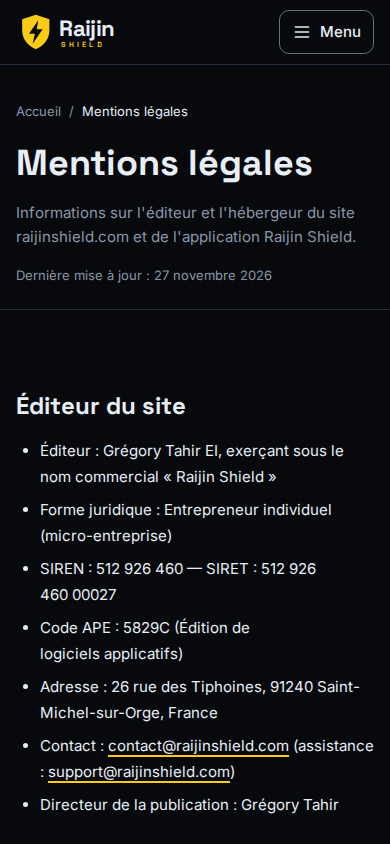
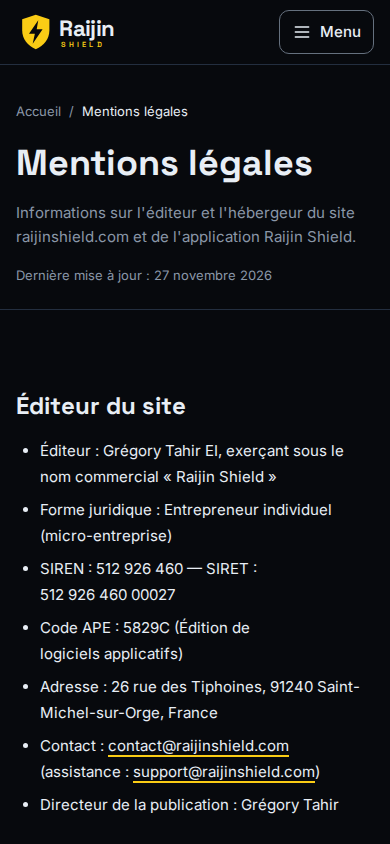
fix(landing): plus de mots collés après compression HTML, espaces insécables françaises au build, test sur le HTML construit, captures refaites

Changed region(s): [[0.0923, 0.8626, 0.9538, 0.9242], [0.0923, 0.6777, 0.4615, 0.7085], [0.6769, 0.6469, 0.8, 0.6777]]

diff --git a/apps/landing/src/dist.spec.ts b/apps/landing/src/dist.spec.ts
@@ -5,6 +5,7 @@ import { join, relative, resolve } from 'node:path';
 import { gzipSync } from 'node:zlib';
 import { describe, expect, it } from 'vitest';
 import { DISCLAIMER } from './lib/content';
+import { findGluedWords } from './lib/glued-words';
 import { EDITOR } from './lib/legal';
 import { STATIC_PAGES } from './lib/pages';
 import { formatPrice } from './lib/pricing';
@@ -56,11 +57,18 @@ const APP_PATHS = ['/compte/inscription', '/compte/connexion', '/analyse'];
 /** Mots et symboles interdits par la charte (BRAND.md, PROMPT.md §2). */
 const FORBIDDEN = [/\bx10\b/i, /\bmoon\b/i, /\bgems?\b/i, /achète/i, /opportunité/i, /signal d['’]achat/i, /🚀/u, /💰/u];
 
+/** Texte visible, espaces insécables (typographie française du build) ramenées à des espaces. */
 function visibleText(doc: Document): string {
+  return rawVisibleText(doc).replace(/\u00a0/g, ' ');
+}
+
+function rawVisibleText(doc: Document): string {
   const clone = doc.body.cloneNode(true) as HTMLElement;
   for (const script of clone.querySelectorAll('script, style')) script.remove();
   return clone.textContent ?? '';
 }
+
+const plain = (text: string | null | undefined) => (text ?? '').replace(/\u00a0/g, ' ').trim();
 
 describe('build : pages et SEO', () => {
   it('produit toutes les pages attendues', () => {
@@ -200,10 +208,10 @@ describe('build : liens', () => {
 describe('build : contenu', () => {
   it('la mention légale figure dans le pied de page de chaque page et dans le contenu de la page Tarifs', () => {
     for (const page of pages) {
-      expect(page.doc.querySelector('footer [data-disclaimer]')?.textContent?.trim(), page.path).toBe(DISCLAIMER);
+      expect(plain(page.doc.querySelector('footer [data-disclaimer]')?.textContent), page.path).toBe(DISCLAIMER);
     }
     const tarifs = pages.find((page) => page.path === '/tarifs') as Page;
-    expect(tarifs.doc.querySelector('main [data-disclaimer]')?.textContent?.trim()).toBe(DISCLAIMER);
+    expect(plain(tarifs.doc.querySelector('main [data-disclaimer]')?.textContent)).toBe(DISCLAIMER);
   });
 
   it('les prix affichés sur l’accueil et les tarifs sont ceux du catalogue', () => {
@@ -232,6 +240,24 @@ describe('build : contenu', () => {
     for (const word of ['rj_consent', 'rj_attr', '_ga', 'sessionStorage', 'Stripe', 'Resend', 'Helius', 'CNIL']) {
       expect(privacy).toContain(word);
     }
+  });
+
+  it.each(pages.map((page) => [page.path, page] as const))('%s : aucun mot collé à un lien, une expression ou une parenthèse', (_, page) => {
+    expect(findGluedWords(page.html)).toEqual([]);
+  });
+
+  it.each(pages.map((page) => [page.path, page] as const))('%s : espace insécable avant « : ; ? ! » et autour des guillemets', (_, page) => {
+    const clone = page.doc.body.cloneNode(true) as HTMLElement;
+    for (const node of clone.querySelectorAll('script, style, pre, code, svg')) node.remove();
+    const text = clone.textContent ?? '';
+    expect(text.match(/.{0,30}(?: [:;?!»]|« )(?=[\s\u00a0)\].,…»]|$).{0,10}/gmu) ?? []).toEqual([]);
+  });
+
+  it('mentions légales : « assistance : » et le SIRET ne se coupent pas', () => {
+    const legal = pages.find((page) => page.path === '/mentions-legales') as Page;
+    expect(rawVisibleText(legal.doc)).toContain('assistance\u00a0:');
+    const siret = [...legal.doc.querySelectorAll('.whitespace-nowrap')].map((node) => node.textContent);
+    expect(siret).toContain(EDITOR.siret);
   });
 
   it('aucun mot interdit dans les pages ni dans les contenus sources', () => {

diff --git a/apps/landing/src/lib/glued-words.ts b/apps/landing/src/lib/glued-words.ts
@@ -1,0 +1,44 @@
+/**
+ * Détection des mots collés dans le HTML construit : la compression HTML d'Astro supprime l'espace d'un saut de
+ * ligne voisin d'une expression `{…}` ou d'une balise (« France(voir », « les<a>mentions », « :<a>contact@ »).
+ * Utilisé par `dist.spec.ts` sur chaque page. Le code, les scripts, les styles et le SVG sont ignorés ; les URL et
+ * les adresses ne déclenchent rien (`https://`, `contact@raijinshield.com`, `cnil.fr`).
+ */
+const IGNORED = /<(script|style|pre|code|kbd|samp|textarea|svg)\b[\s\S]*?<\/\1>/gi;
+/** Balises de texte (pas les `span` de mise en page, séparés visuellement par flex ou marges). */
+const INLINE = '(?:a|strong|em|b|i|mark|abbr|cite|q|time)';
+
+export const GLUED_PATTERNS: readonly { name: string; html: RegExp }[] = [
+  { name: 'lettre ou ponctuation collée avant une balise de texte', html: new RegExp(`[\\p{L}\\p{N},;:.!?)»]<${INLINE}[\\s>]`, 'u') },
+  { name: 'balise de texte fermée collée à un mot', html: new RegExp(`</${INLINE}>[\\p{L}\\p{N}(«]`, 'u') },
+];
+
+export const GLUED_TEXT: readonly { name: string; text: RegExp }[] = [
+  { name: 'mot collé à une parenthèse ouvrante', text: /\p{L}\((?!s\))/u },
+  { name: 'deux-points ou point-virgule collé au mot suivant', text: /(?<![\p{L}\p{N}/])[:;]\p{L}/u },
+  { name: 'deux-points collé à une adresse e-mail', text: /:[^\s\u00a0/]+@/u },
+];
+
+/** Texte visible approché : balises de texte retirées sans espace, autres balises remplacées par une espace. */
+export function visibleTextOf(html: string): string {
+  return html
+    .replace(IGNORED, ' ')
+    .replace(new RegExp(`</?${INLINE}\\b[^>]*>`, 'g'), '')
+    .replace(/<[^>]+>/g, ' ')
+    .replace(/&nbsp;|&#160;/g, '\u00a0');
+}
+
+/** Extraits fautifs (vide si aucun mot collé). */
+export function findGluedWords(html: string): string[] {
+  const body = html.slice(Math.max(0, html.search(/<body[\s>]/i))).replace(IGNORED, ' ');
+  const found: string[] = [];
+  const excerpt = (source: string, index: number) => source.slice(Math.max(0, index - 30), index + 30);
+  for (const { name, html: pattern } of GLUED_PATTERNS) {
+    for (const match of body.matchAll(new RegExp(pattern.source, 'gu'))) found.push(`${name} : ${excerpt(body, match.index)}`);
+  }
+  const text = visibleTextOf(body);
+  for (const { name, text: pattern } of GLUED_TEXT) {
+    for (const match of text.matchAll(new RegExp(pattern.source, 'gu'))) found.push(`${name} : ${excerpt(text, match.index)}`);
+  }
+  return found;
+}

diff --git a/apps/landing/src/lib/typography.ts b/apps/landing/src/lib/typography.ts
@@ -22,3 +22,47 @@ export function splitInversions(text: string): TextSegment[] {
   if (last < text.length) segments.push({ text: text.slice(last), nowrap: false });
   return segments;
 }
+
+/**
+ * Typographie française du HTML construit : espace insécable (U+00A0) avant `:` `;` `?` `!` et `»`, après `«`,
+ * pour qu'aucune ponctuation ne commence une ligne (« assistance : » coupé avant les deux-points à 390 px).
+ * Seul le texte du `<body>` est touché : ni les attributs, ni `<head>` (title, meta), ni le contenu de `script`
+ * (JSON-LD), `style`, `pre`, `code`, `kbd`, `samp`, `textarea` et `svg`. Une ponctuation collée à un mot ou suivie
+ * d'une lettre (`https:`, `a:hover`, `?utm=`) n'est jamais modifiée. Appliqué par l'intégration du build
+ * (`astro.config.mjs`), sans aucun JS côté client.
+ */
+const NBSP = '\u00a0';
+const RAW_TEXT = new Set(['script', 'style', 'pre', 'code', 'kbd', 'samp', 'textarea', 'svg']);
+/** Balise, commentaire ou doctype ; les valeurs d'attribut entre guillemets peuvent contenir `>`. */
+const TAG = /<!--[\s\S]*?-->|<!?\/?[a-zA-Z][^\s/>]*(?:[^>"']|"[^"]*"|'[^']*')*>/g;
+const BEFORE_PUNCT = /[ \t\r\n]+(?=(?:[:;?!]+|»)(?:[\s\u00a0)\].,…»]|$))/g;
+const AFTER_GUILLEMET = /«[ \t\r\n]+/g;
+
+export function frenchSpacingText(text: string): string {
+  return text.replace(BEFORE_PUNCT, NBSP).replace(AFTER_GUILLEMET, `«${NBSP}`);
+}
+
+export function frenchSpacingHtml(html: string): string {
+  const bodyStart = html.search(/<body[\s>]/i);
+  if (bodyStart < 0) return html;
+  const body = html.slice(bodyStart);
+  const parts: string[] = [html.slice(0, bodyStart)];
+  let skip: string | null = null;
+  let cursor = 0;
+  for (const match of body.matchAll(TAG)) {
+    const text = body.slice(cursor, match.index);
+    parts.push(skip ? text : frenchSpacingText(text), match[0]);
+    cursor = match.index + match[0].length;
+    const name = /^<\/?([a-zA-Z][^\s/>]*)/.exec(match[0])?.[1]?.toLowerCase();
+    if (!name) continue;
+    const closing = match[0].startsWith('</');
+    if (skip) {
+      if (closing && name === skip) skip = null;
+    } else if (!closing && RAW_TEXT.has(name) && !match[0].endsWith('/>')) {
+      skip = name;
+    }
+  }
+  const tail = body.slice(cursor);
+  parts.push(skip ? tail : frenchSpacingText(tail));
+  return parts.join('');
+}

diff --git a/apps/landing/src/lib/glued-words.spec.ts b/apps/landing/src/lib/glued-words.spec.ts
@@ -1,0 +1,28 @@
+import { describe, expect, it } from 'vitest';
+import { findGluedWords } from './glued-words';
+
+const page = (body: string) => `<!doctype html><html lang="fr"><head><title>T : x</title></head><body>${body}</body></html>`;
+
+describe('findGluedWords', () => {
+  it('détecte les mots collés du tour 7 (CGU, confidentialité, comment ça marche)', () => {
+    const cases = [
+      '<p>Saint-Michel-sur-Orge, France(voir les <a href="/mentions-legales">mentions légales</a>)</p>',
+      '<p>à l\'adresse de contact :<a href="mailto:contact@raijinshield.com">contact@raijinshield.com</a>.</p>',
+      '<p>(voir les<a href="/mentions-legales">mentions légales</a>)</p>',
+      '<p>repérer un rug pull</a>,<a href="/guides/mint-authority">comprendre la mint authority</a>et <a href="/x">y</a></p>',
+      '<p>médiateur de la consommation :<mark data-legal-todo>À compléter</mark>.</p>',
+    ];
+    for (const body of cases) expect(findGluedWords(page(body)), body).not.toEqual([]);
+  });
+
+  it('accepte un texte correct, les URL, les adresses, le code et les scripts', () => {
+    const body = [
+      '<p>Contact&nbsp;: <a href="mailto:contact@raijinshield.com">contact@raijinshield.com</a> (assistance&nbsp;: <a href="mailto:s@x.fr">s@x.fr</a>).</p>',
+      '<p>Réclamation auprès de la CNIL (<a href="https://www.cnil.fr">cnil.fr</a>), voir https://raijinshield.com/tarifs.</p>',
+      '<p>Le ou les token(s) ; <strong>Source</strong>&nbsp;: Helius.</p>',
+      '<pre><code>getAccount(mint);a:b</code></pre><script type="application/ld+json">{"a":"b(c"}</script>',
+      '<svg><text>x(y</text></svg><span class="tabular">14,90 €</span><span class="ml-1">par mois</span>',
+    ].join('');
+    expect(findGluedWords(page(body))).toEqual([]);
+  });
+});

diff --git a/apps/landing/src/lib/typography.spec.ts b/apps/landing/src/lib/typography.spec.ts
@@ -1,5 +1,5 @@
 import { describe, expect, it } from 'vitest';
-import { splitInversions } from './typography';
+import { frenchSpacingHtml, splitInversions } from './typography';
 
 describe('splitInversions', () => {
   it('protège les inversions sujet-verbe', () => {
@@ -16,5 +16,23 @@ describe('splitInversions', () => {
     expect(splitInversions('anti-rug et pump.fun')).toEqual([{ text: 'anti-rug et pump.fun', nowrap: false }]);
     const text = "D'où viennent les données ? Existe-t-il un devis ?";
     expect(splitInversions(text).map((s) => s.text).join('')).toBe(text);
+  });
+});
+
+describe('frenchSpacingHtml', () => {
+  it('met une espace insécable avant : ; ? ! » et après « dans le texte du body', () => {
+    const html = frenchSpacingHtml(
+      '<html><head><title>A : b ?</title></head><body><p>Contact : <a href="mailto:a@b.fr">a@b.fr</a> (assistance : x) ; « Sain » ? Oui !</p></body></html>',
+    );
+    expect(html).toContain('<title>A : b ?</title>');
+    expect(html).toContain('Contact\u00a0: <a href="mailto:a@b.fr">');
+    expect(html).toContain('(assistance\u00a0: x)\u00a0; «\u00a0Sain\u00a0»\u00a0? Oui\u00a0!');
+  });
+
+  it('ne touche ni aux attributs, ni au code, ni au JSON-LD, ni aux URL', () => {
+    const body =
+      '<body><a title="a : b" href="https://x.fr/?q=1">https://x.fr</a><code>a : b</code><pre>x ; y</pre>' +
+      '<script type="application/ld+json">{"name":"Mint authority : c\'est quoi ?"}</script><p>a:hover ?utm=1</p></body>';
+    expect(frenchSpacingHtml(body)).toBe(body);
   });
 });
